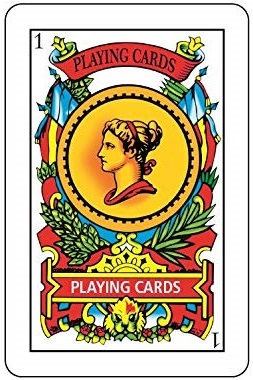
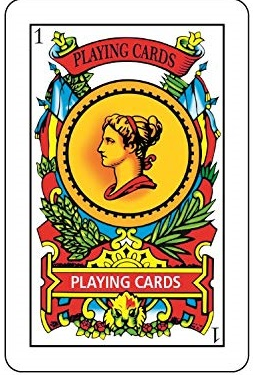
feat: add Settings page, update routing, and integrate primeicons for improved UI

diff --git a/src/app/routes/pageLinks.js b/src/app/routes/pageLinks.js
@@ -1,4 +1,4 @@
-import { BookOpen, Code2, Crown, Menu, Play, Users } from 'lucide-react';
+import { BookOpen, Crown, Play, Users } from 'lucide-react';
 
 export const pageLinks = [
   {
@@ -12,12 +12,6 @@ export const pageLinks = [
     path: '/rooms',
     description: 'Criacao e gerenciamento de salas.',
     icon: Users,
-  },
-  {
-    label: 'View Rooms',
-    path: '/view-rooms',
-    description: 'Lista de salas disponiveis.',
-    icon: Menu,
   },
   {
     label: 'Leaderboard',
@@ -35,6 +29,12 @@ export const pageLinks = [
     label: 'Github',
     path: '/github',
     description: 'Links e informacoes do repositorio.',
-    icon: Code2,
+    primeIcon: 'pi pi-github',
+  },
+  {
+    label: 'Settings',
+    path: '/settings',
+    description: 'Preferencias e configuracoes do jogo.',
+    primeIcon: 'pi pi-cog',
   },
 ];

diff --git a/src/app/routes/Home/Home.jsx b/src/app/routes/Home/Home.jsx
@@ -8,6 +8,7 @@ import frenchCard3Paus from '@/assets/cards/french/3paus.png';
 import gameBg from '@/assets/videos/game-bg.mp4';
 import { LoginCard } from '@/components/auth/LoginCard.jsx';
 import { VideoText } from '@/components/ui/video-text.jsx';
+import { cn } from '@/lib/utils.js';
 import { pageLinks } from '../pageLinks.js';
 
 const cardGroups = [
@@ -115,7 +116,17 @@ export function Home() {
                 >
                   <span className="flex items-center gap-3">
                     <span className="grid size-11 shrink-0 place-items-center rounded-md bg-secondary text-secondary-foreground transition group-hover:bg-primary group-hover:text-primary-foreground lg:size-9">
-                      <Icon className="size-5 lg:size-4" />
+                      {Icon ? (
+                        <Icon className="size-5 lg:size-4" />
+                      ) : page.primeIcon ? (
+                        <i className={cn(page.primeIcon, 'text-lg lg:text-base')} />
+                      ) : (
+                        <img
+                          src={page.iconSrc}
+                          alt=""
+                          className="size-5 object-contain lg:size-4"
+                        />
+                      )}
                     </span>
                     <span className="text-xl font-bold text-foreground lg:text-base">
                       {page.label}

diff --git a/src/components/layout/NavBar.jsx b/src/components/layout/NavBar.jsx
@@ -92,7 +92,17 @@ export function NavBar({ isCollapsed, onToggle }) {
                 )
               }
             >
-              <Icon className="size-4 shrink-0" />
+              {Icon ? (
+                <Icon className="size-4 shrink-0" />
+              ) : item.primeIcon ? (
+                <i className={cn(item.primeIcon, 'shrink-0 text-base')} />
+              ) : (
+                <img
+                  src={item.iconSrc}
+                  alt=""
+                  className="size-4 shrink-0 object-contain"
+                />
+              )}
               {!isCollapsed && <span>{item.label}</span>}
             </NavLink>
           );

diff --git a/src/app/routes/Settings/Settings.jsx b/src/app/routes/Settings/Settings.jsx
@@ -1,0 +1,10 @@
+import { RoutePage } from '../RoutePage.jsx';
+
+export function Settings() {
+  return (
+    <RoutePage
+      title="Settings"
+      description="Pagina reservada para preferencias, opcoes de mesa e configuracoes da conta."
+    />
+  );
+}

diff --git a/src/app/router.jsx b/src/app/router.jsx
@@ -6,7 +6,7 @@ import { Home } from './routes/Home/Home.jsx';
 import { HowToPlay } from './routes/HowToPlay/HowToPlay.jsx';
 import { Leaderboard } from './routes/Leaderboard/Leaderboard.jsx';
 import { Rooms } from './routes/Rooms/Rooms.jsx';
-import { ViewRooms } from './routes/ViewRooms/ViewRooms.jsx';
+import { Settings } from './routes/Settings/Settings.jsx';
 
 export function AppRouter() {
   return (
@@ -16,10 +16,10 @@ export function AppRouter() {
           <Route path="/" element={<Home />} />
           <Route path="/game" element={<Game />} />
           <Route path="/rooms" element={<Rooms />} />
-          <Route path="/view-rooms" element={<ViewRooms />} />
           <Route path="/leaderboard" element={<Leaderboard />} />
           <Route path="/how-to-play" element={<HowToPlay />} />
           <Route path="/github" element={<Github />} />
+          <Route path="/settings" element={<Settings />} />
         </Route>
         <Route path="*" element={<Navigate to="/" replace />} />
       </Routes>

diff --git a/src/index.css b/src/index.css
@@ -2,6 +2,7 @@
 @import "tw-animate-css";
 @import "shadcn/tailwind.css";
 @import "@fontsource-variable/geist";
+@import "primeicons/primeicons.css";
 
 @custom-variant dark (&:is(.dark *));
 